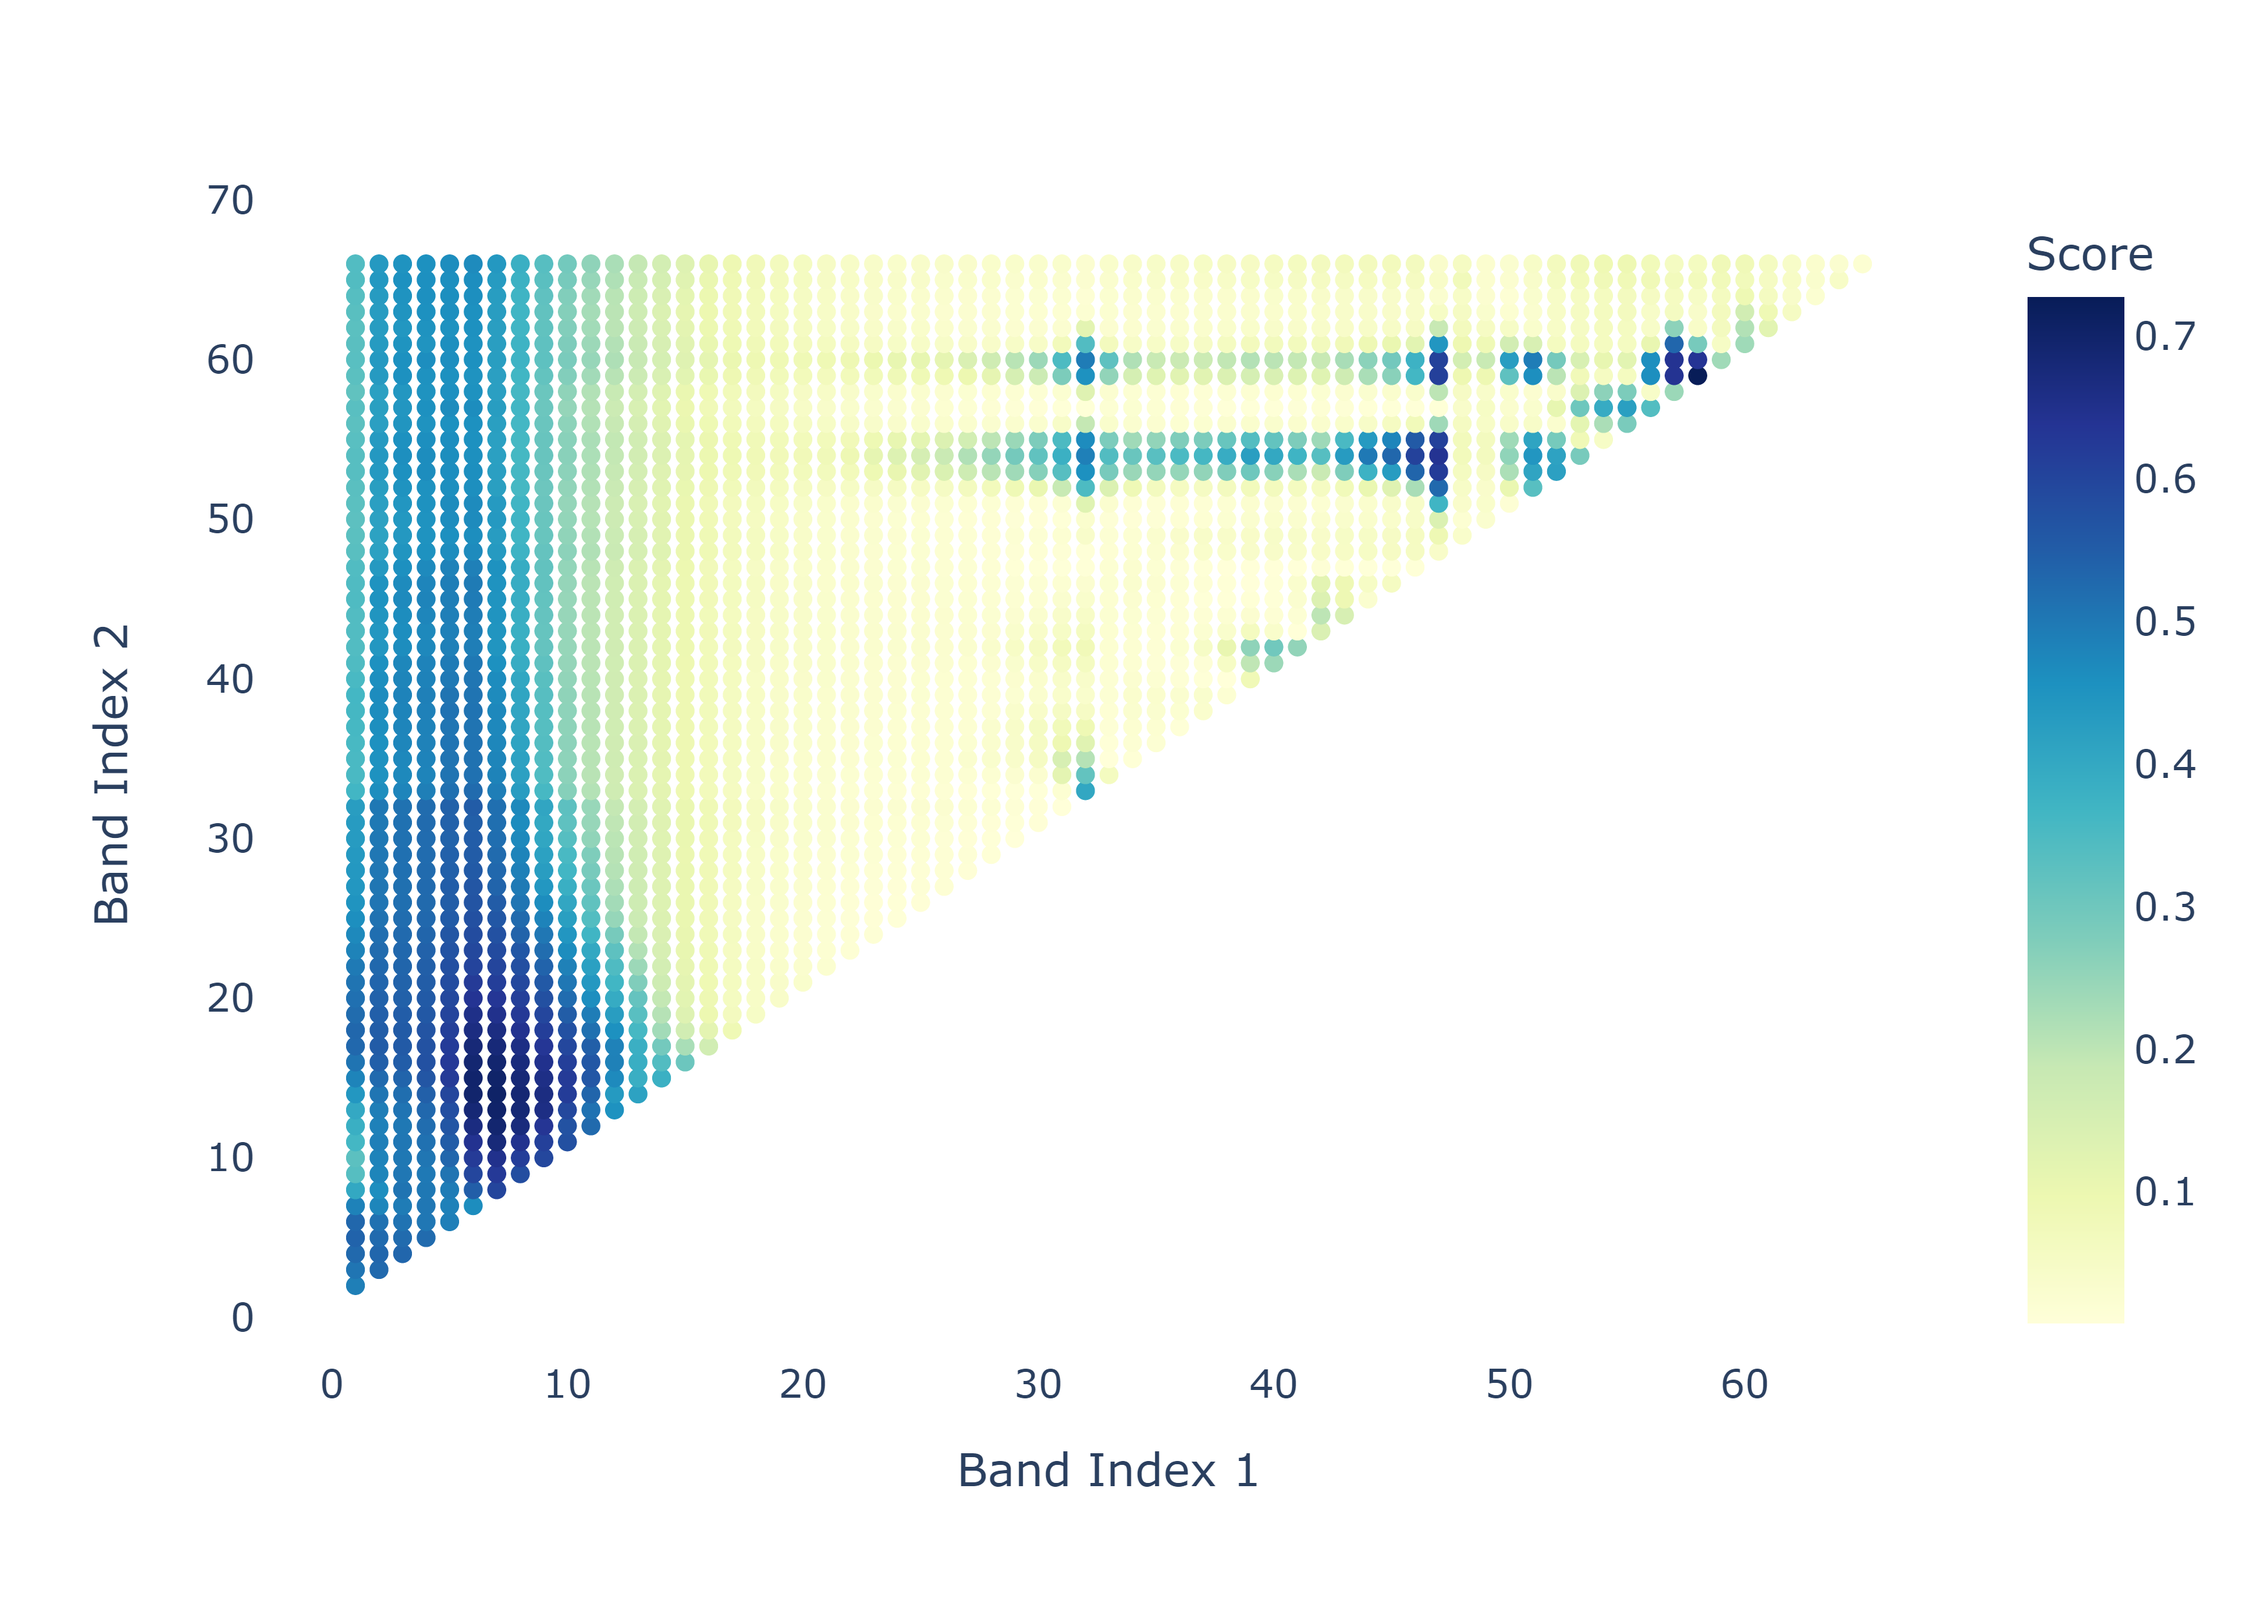
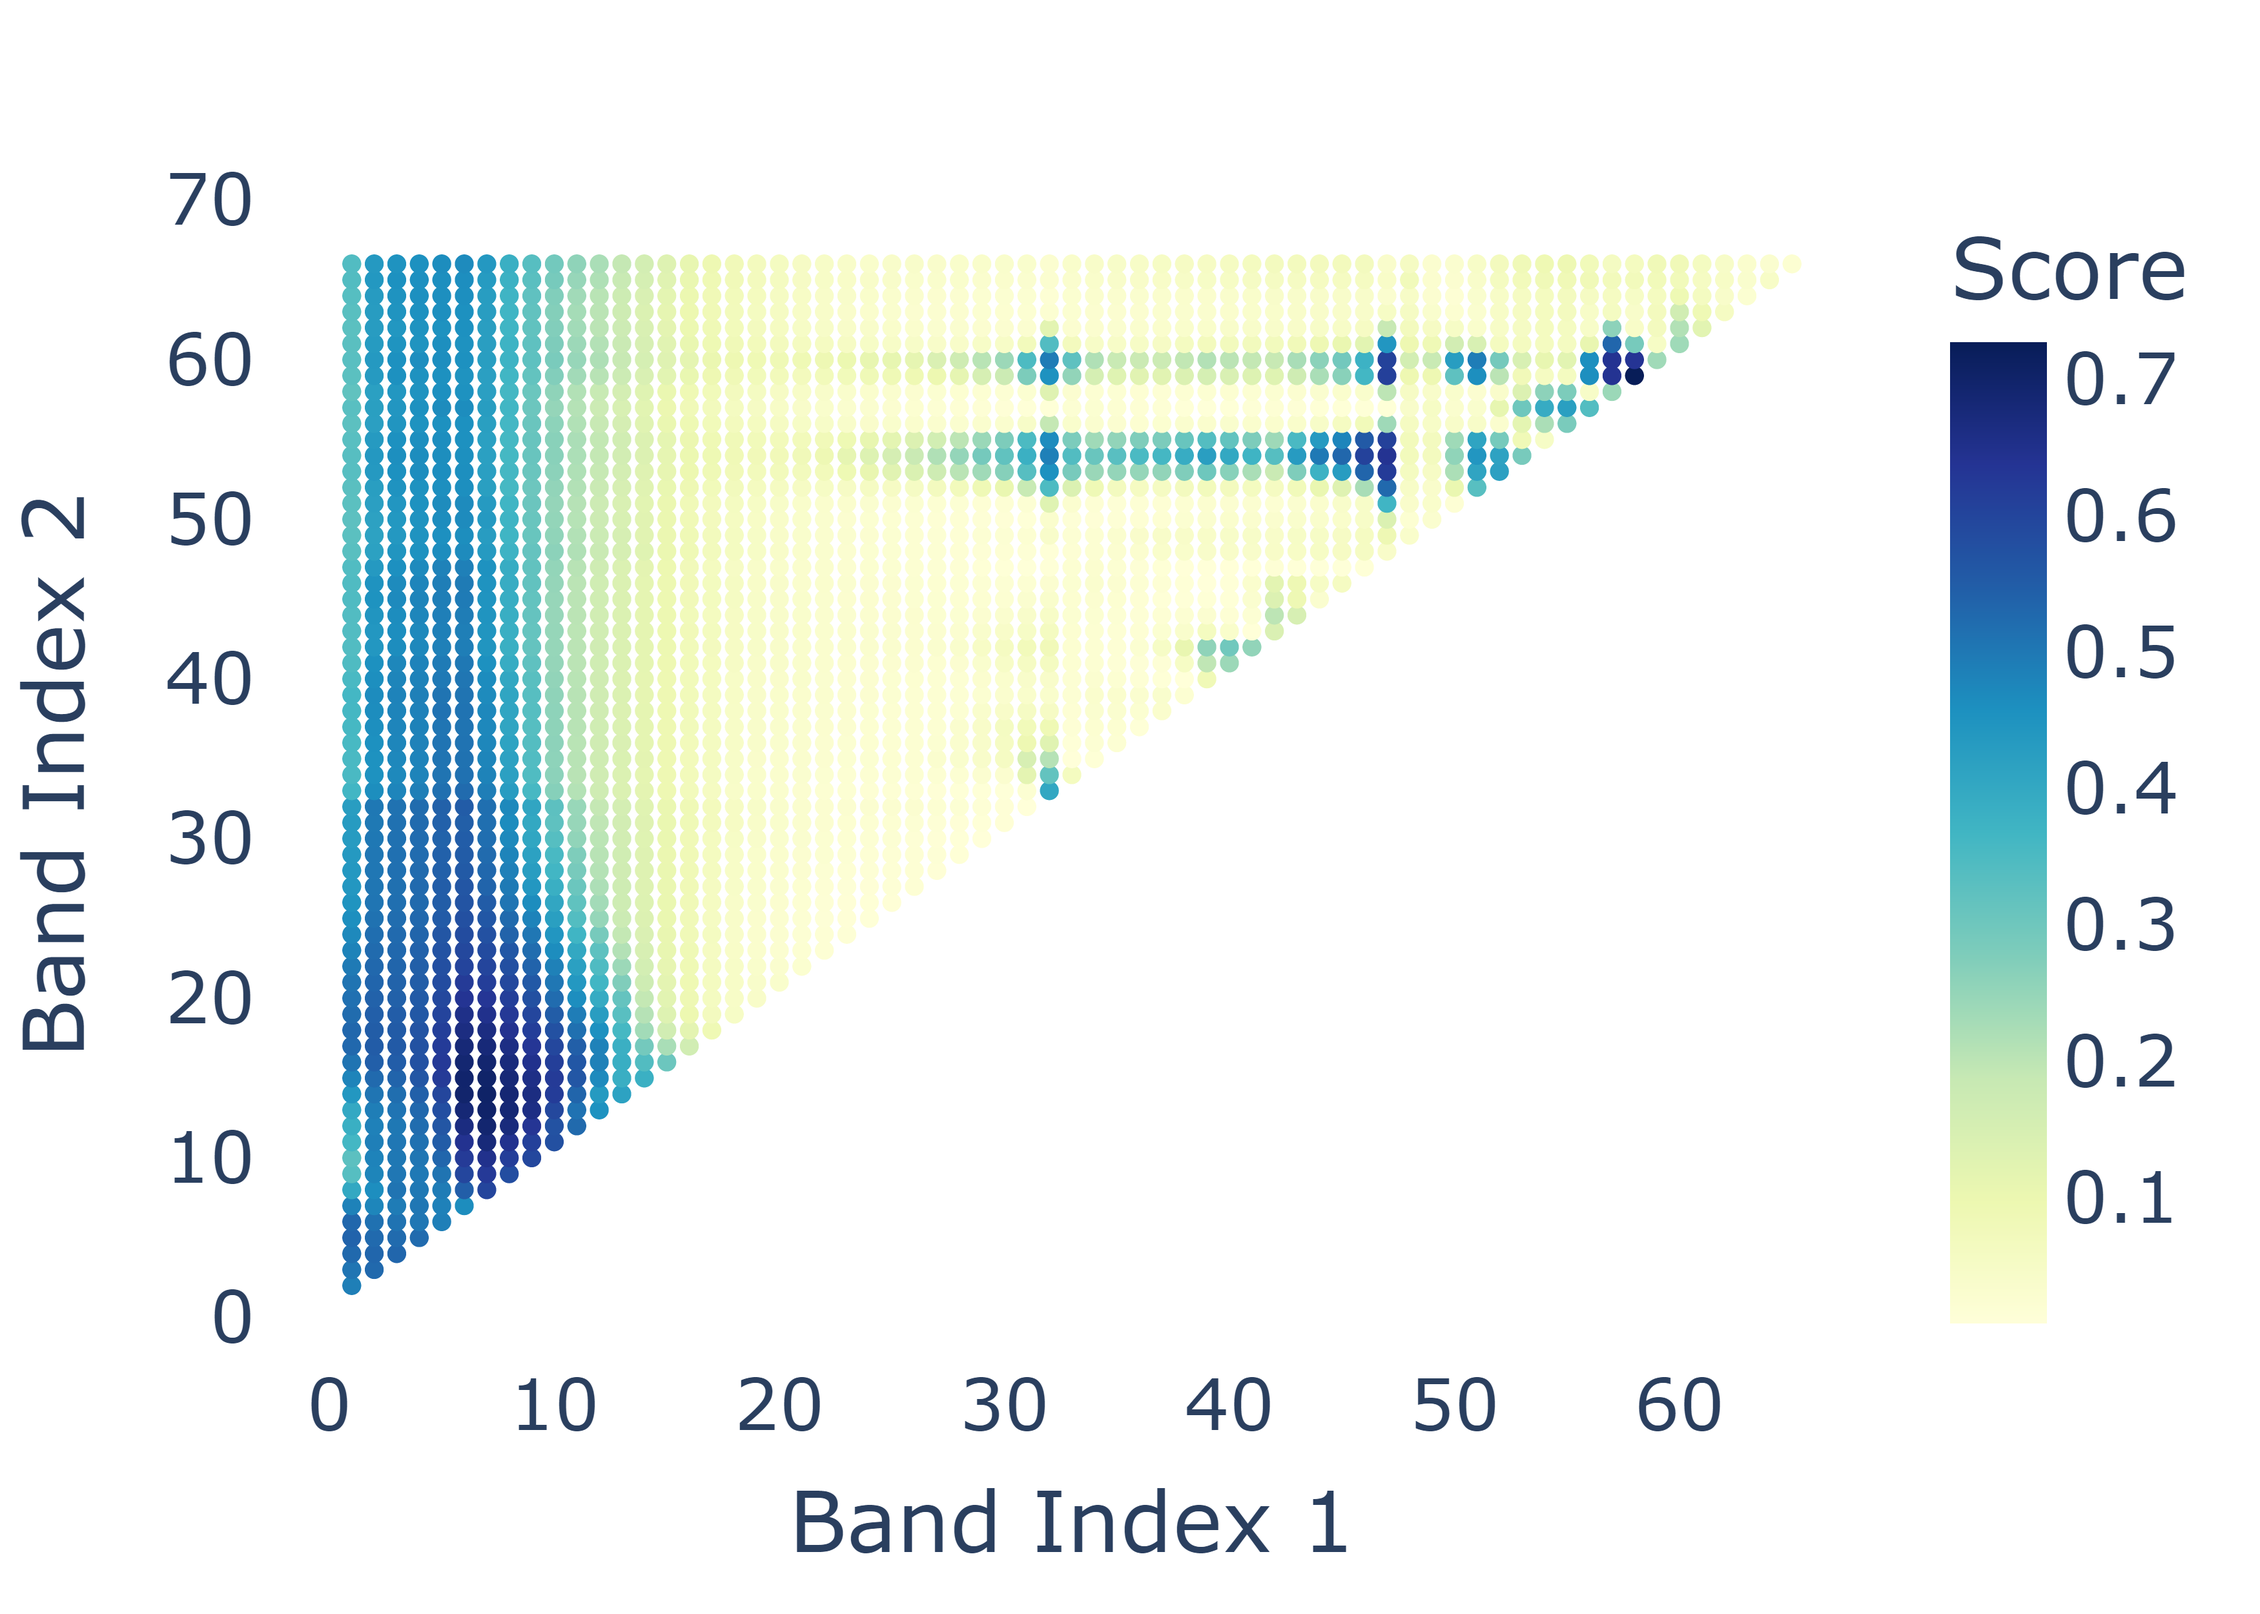
done

diff --git a/plot2b.py b/plot2b.py
@@ -5,9 +5,20 @@ df = pd.read_csv("b22.csv")
 
 fig = px.scatter(df, x='band1', y='band2',
                     color='score',
-                    color_continuous_scale='Viridis',
-                    title='3D Scatter Plot',
-                    opacity=1
+                    color_continuous_scale='ylgnbu',
+                    labels={"band1": "Band Index 1", "band2": "Band Index 2", "score": "Score"}
                     )
+
+fig.update_layout({
+    'plot_bgcolor': 'white',
+    'paper_bgcolor': 'white',
+    'title_x': 0.5
+})
+
+fig.update_layout(
+    font=dict(size=22),
+
+)
+
 
 fig.write_image("fig1.png", scale=5)
